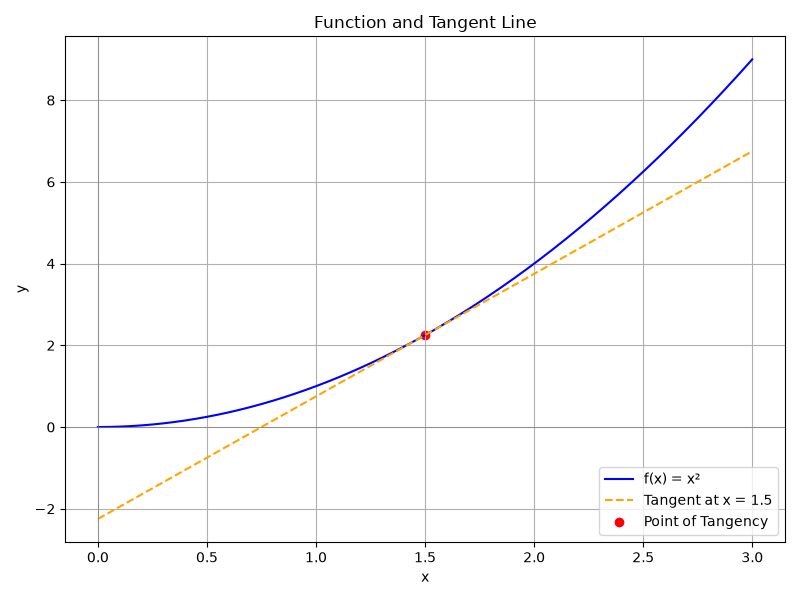
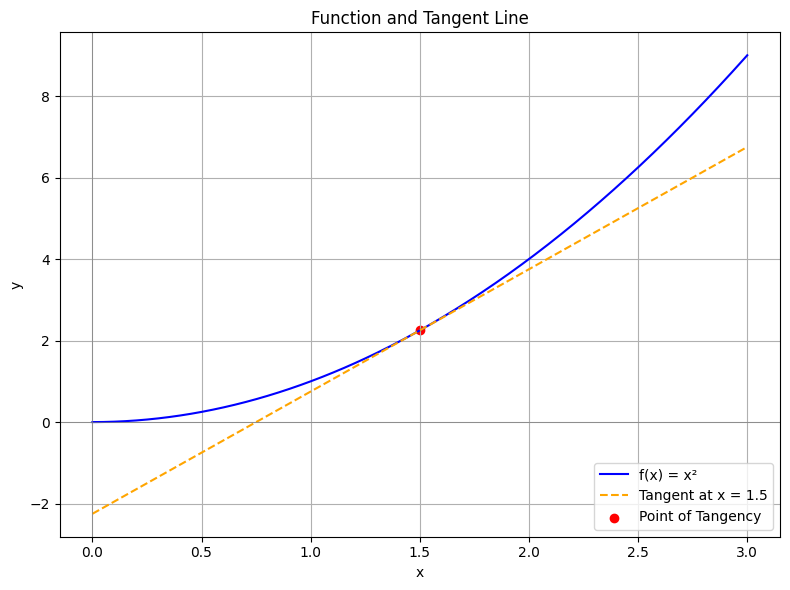
Restore original plots and support new native posts

Changed region(s): [[0.0304, 0.0, 1.0, 0.9763], [0.7899, 0.3356, 0.8203, 0.3661], [0.0, 0.4576, 0.0304, 0.4881]]

diff --git a/src/content.config.ts b/src/content.config.ts
@@ -9,7 +9,7 @@ const posts = defineCollection({
     description: z.string(),
     category: z.enum(['AI', '개발', '투자', '성장·회고', '일상']),
     tags: z.array(z.string()),
-    originalUrl: z.string().url(),
+    originalUrl: z.string().url().optional(),
   }),
 });
 const pages = defineCollection({

diff --git a/README.md b/README.md
@@ -23,13 +23,12 @@ description: 검색 결과와 목록에 표시할 150자 안팎의 요약
 category: 개발
 tags:
   - Astro
-originalUrl: https://bbakgosu.tistory.com/44
 ---
 
 본문을 여기에 씁니다.
 ```
 
-카테고리는 `AI`, `개발`, `투자`, `성장·회고`, `일상` 중 하나입니다. 이미지 파일은 `public/images/posts/<번호>/`에 넣고 본문에서는 `/images/posts/<번호>/파일명`으로 참조합니다. 새 글에 티스토리 원문이 없다면 `originalUrl` 스키마와 원문 링크 표시도 함께 조정해야 합니다.
+카테고리는 `AI`, `개발`, `투자`, `성장·회고`, `일상` 중 하나입니다. 이미지 파일은 `public/images/posts/<번호>/`에 넣고 본문에서는 `/images/posts/<번호>/파일명`으로 참조합니다. 티스토리에서 옮긴 글이라면 frontmatter에 `originalUrl: https://bbakgosu.tistory.com/<번호>`를 추가합니다.
 
 ## 배포와 도메인
 
@@ -37,4 +36,4 @@ originalUrl: https://bbakgosu.tistory.com/44
 
 ## 이전 자료 확인 사항
 
-요청한 공개 글 34개를 모두 옮겼습니다. `/posts/21/`에 있던 이미지 두 장(`4_12_23_0.png`, `4_12_25_0.png`)은 원본 티스토리에서도 HTTP 404를 반환해 가져올 수 없었습니다. 두 그림은 글 바로 앞에 실린 Python 그래프 코드의 값과 설정으로 재생성해 `public/images/posts/21/`에 넣었습니다. 원본 PNG를 내려받은 것은 아니므로 원본 파일을 찾으면 교체할 수 있습니다.
+요청한 공개 글 34개를 모두 옮겼습니다. `/posts/21/`의 그래프 두 장은 티스토리 원본 URL이 HTTP 404를 반환했지만, 로컬 `DeZero/MyStudy/4_12/4_12_files/`에서 원본 PNG를 찾아 `public/images/posts/21/`에 넣었습니다.

diff --git a/src/content/posts/21.md b/src/content/posts/21.md
@@ -269,7 +269,7 @@ plt.tight_layout()
 plt.show()
 ```
 
-![본문의 접선 그래프 코드를 실행해 재생성한 이미지](/images/posts/21/1.png)
+![접선 그래프 원본 이미지](/images/posts/21/1.png)
 
 ## 수치미분
 
@@ -345,7 +345,7 @@ plt.tight_layout()
 plt.show()
 ```
 
-![본문의 전진·중앙 차분 비교 코드를 실행해 재생성한 이미지](/images/posts/21/2.png)
+![전진·중앙 차분 비교 그래프 원본 이미지](/images/posts/21/2.png)
 
 ## 📘 중앙차분법 (Central Difference Method)
 
